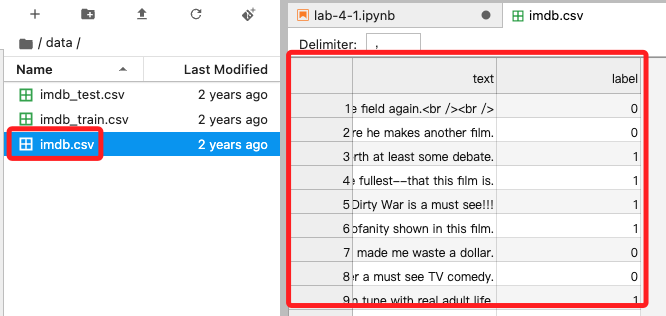
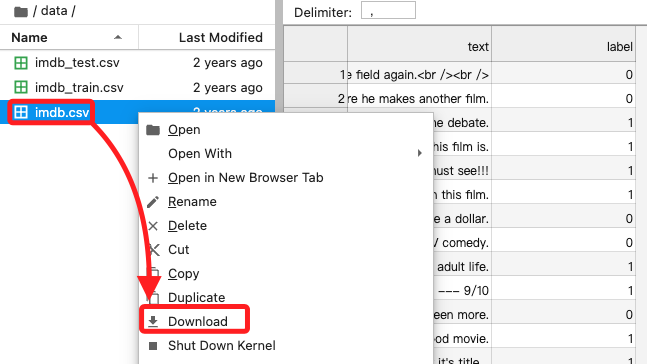
Commit on 2024-11-07 16:09:05

diff --git a/01_課程筆記/00_Lab/94020/Lab 4.1_Implementing Sentiment Analysis/01_官方範例/01_實作.md b/01_課程筆記/00_Lab/94020/Lab 4.1_Implementing Sentiment Analysis/01_官方範例/01_實作.md
@@ -523,13 +523,13 @@ _與範例數據集比較_
 
 <br>
 
-2. 點擊連結可進入 Lab 查看數據集。
+2. 點擊連結可進入 Lab 查看數據集，點擊右鍵下載到本地。
 
     ![](images/img_34.png)
 
 <br>
 
-3. 為了比對官方數據與自行下載數據是否存在差異，先手動下載範例資料集到本地電腦中，接著將文件更名為 `imdb_0.csv` 後拖曳進入專案資料夾中。
+3. 為了比對官方數據與自行下載數據是否存在差異，接著將下載的文件更名為 `imdb_0.csv` 後拖曳進入專案資料夾中。
 
     ![](images/img_24.png)
 
